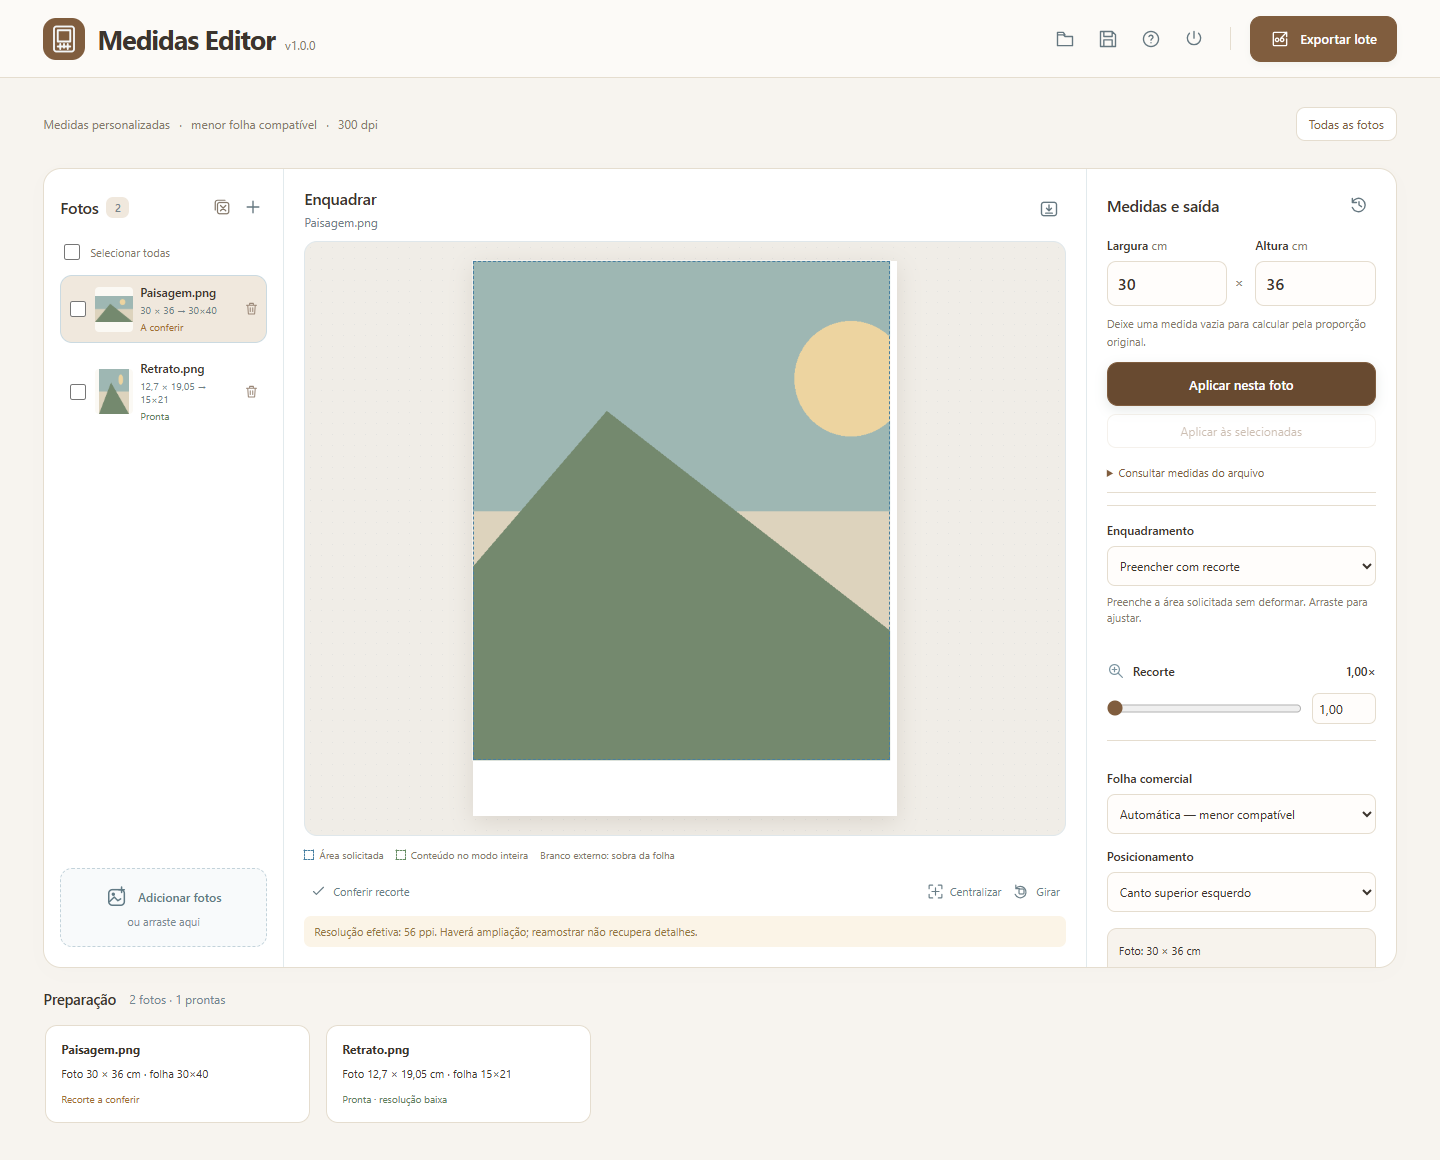
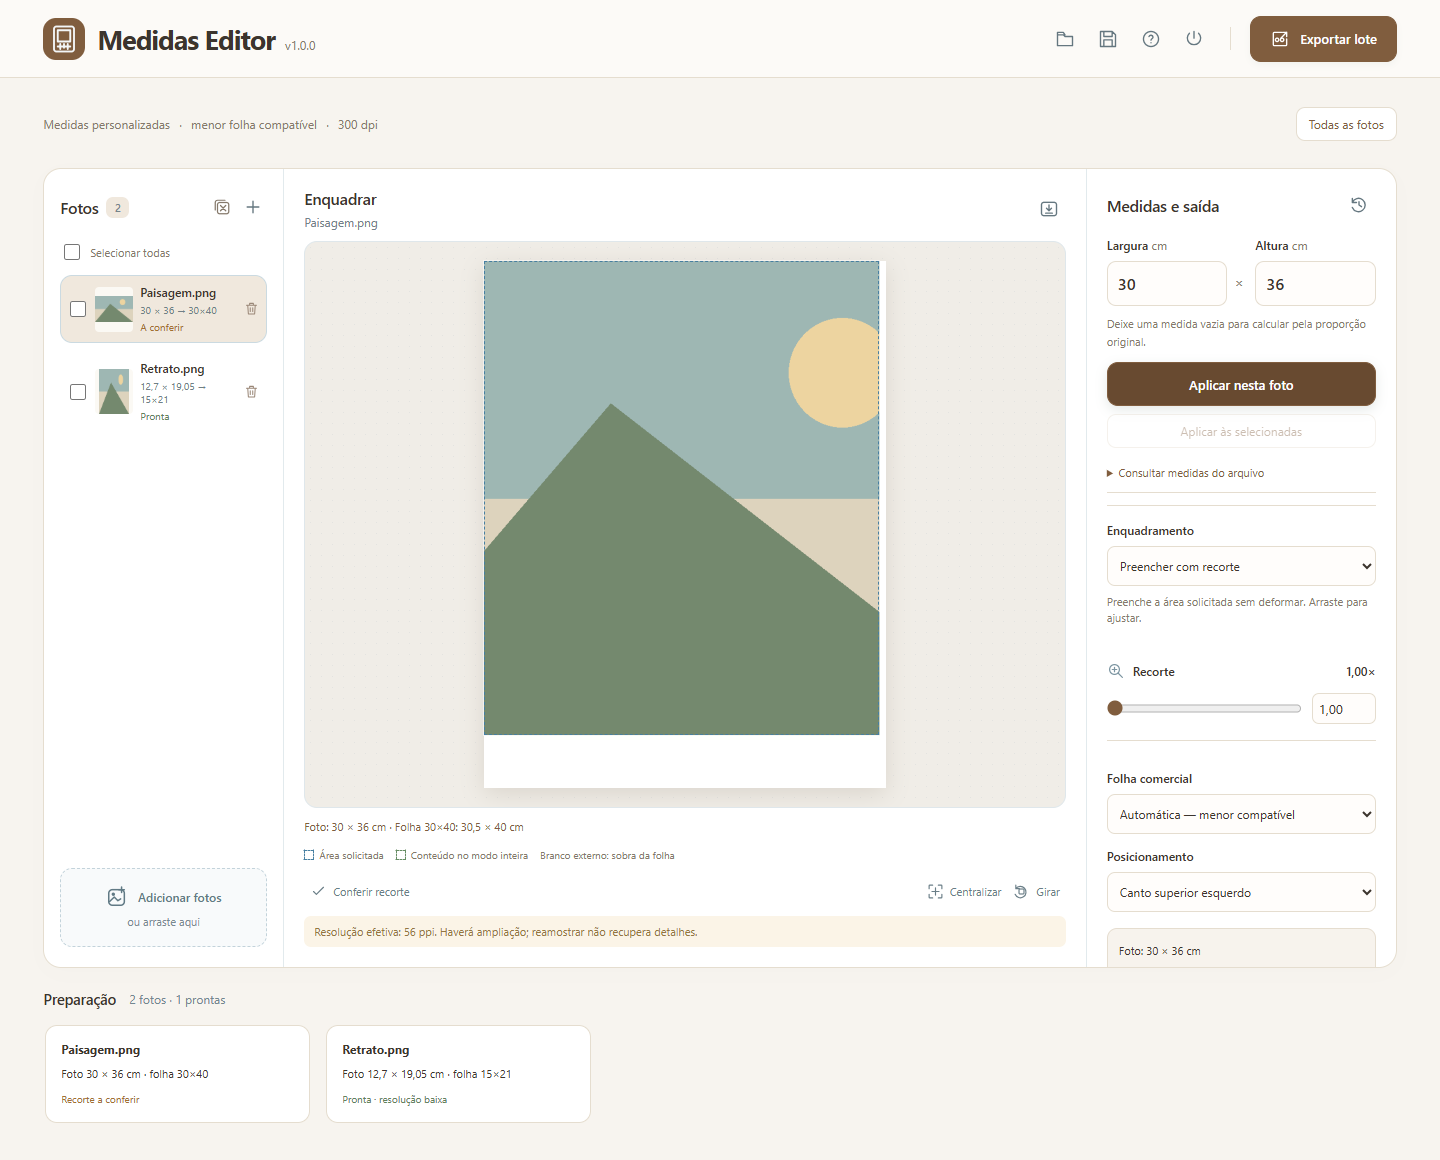
Transmite downloads grandes ao navegador e reforça o resumo da folha

diff --git a/apps/medidas-editor/ui/app.js b/apps/medidas-editor/ui/app.js
@@ -79,10 +79,11 @@ function renderSettings(){
   renderSummary();refreshControls();
 }
 function renderSummary(){
-  const photo=current();$('output-summary').replaceChildren();$('resolution').hidden=true;$('photo-error').hidden=!photo?.error;
+  const photo=current();$('output-summary').replaceChildren();$('sheet-context').textContent='';$('resolution').hidden=true;$('photo-error').hidden=!photo?.error;
   if(photo?.error)$('photo-error').textContent=photo.error;
   if(!photo?.plan){$('output-summary').textContent='Defina a medida da foto para sugerir a folha.';return;}
   const plan=photo.plan,s=photo.settings,sheet=plan.sheet;
+  $('sheet-context').textContent=`Foto: ${dimensions(s.width_cm,s.height_cm)} · Folha ${sheet.name}: ${dimensions(sheet.width_cm,sheet.height_cm)}${sheet.rotation?' · giro de 90°':''}`;
   for(const text of [`Foto: ${dimensions(s.width_cm,s.height_cm)}`,`Folha: ${sheet.name} — arquivo de ${dimensions(sheet.width_cm,sheet.height_cm)}`,`Posição: ${positionNames[s.position]}`,sheet.rotation?'Foto girada 90° para acomodar na folha.':'Foto acomodada sem giro adicional.',`Saída: JPEG · 300 dpi · ${sheet.size_px[0]} × ${sheet.size_px[1]} px`]){const p=document.createElement('p');p.textContent=text;$('output-summary').append(p);}
   const warnings=[...photo.metadata.warnings,...plan.warnings];
   $('resolution').hidden=!warnings.length;$('resolution').textContent=warnings.join(' ');
@@ -187,19 +188,20 @@ document.addEventListener('keydown',e=>{if(document.querySelector('dialog[open]'
 new ResizeObserver(fitPreview).observe($('canvas-area'));
 
 async function downloadBlob(response,name){const blob=await response.blob(),url=URL.createObjectURL(blob),a=document.createElement('a');a.href=url;a.download=name;document.body.append(a);a.click();a.remove();setTimeout(()=>URL.revokeObjectURL(url),60000);}
+function downloadNative(url,name){const a=document.createElement('a');a.href=url;a.download=name;a.rel='noreferrer';document.body.append(a);a.click();a.remove();}
 function requestExport(targets){if(!canEdit())return;if(draftDirty){toast('Aplique as medidas digitadas antes de exportar.');return;}const ready=targets.filter(p=>!pending(p));if(ready.length!==targets.length){pendingExport=ready;$('export-message').textContent=`${targets.length-ready.length} foto(s) ainda precisam de medidas ou revisão. ${ready.length} estão prontas. As pendentes ficarão fora desta exportação.`;$('export-ready').disabled=!ready.length;$('export-dialog').showModal();}else startExport(ready);}
 $('export').onclick=()=>requestExport(photos);$('export-photo').onclick=()=>{if(current())requestExport([current()]);};$('export-ready').onclick=()=>{$('export-dialog').close();startExport(pendingExport);};
 async function startExport(targets){
   if(!canEdit()||!targets.length)return;const snapshot=targets.map(item);saveSession();exporting=true;renderLibrary();renderCards();$('job-panel').hidden=false;$('job-errors').replaceChildren();$('download-result').hidden=true;$('cancel-export').hidden=false;$('cancel-export').disabled=true;
   try{const {job}=await(await api('export/start',{items:snapshot})).json();lastJob=job;$('cancel-export').disabled=false;
     while(!closed){const state=await(await api('export/status',{job})).json();$('job-title').textContent=state.state==='running'?'Preparando arquivos':state.state==='ready'?'Arquivos prontos':state.state==='cancelled'?'Exportação cancelada':'Confira os arquivos';$('job-progress').value=(state.done+(state.state==='running'?state.percent/100:0))/state.total*100;$('job-status').textContent=`${state.done} de ${state.total} processadas · ${state.success} JPEG(s) gerados${state.error?' · '+state.error:''}`;
-      if(state.state!=='running'){$('cancel-export').hidden=true;for(const result of state.items){if(result.error){const li=document.createElement('li');li.textContent=`${result.name}: ${result.error}`;$('job-errors').append(li);}}if(state.state==='ready'){$('download-result').hidden=false;$('download-result').dataset.filename=state.filename;await downloadBlob(await api('export/download',{job}),state.filename);toast(state.success===state.total?'Download iniciado.':'Download iniciado com os JPEGs válidos e um relatório das falhas.');}break;}
+      if(state.state!=='running'){$('cancel-export').hidden=true;for(const result of state.items){if(result.error){const li=document.createElement('li');li.textContent=`${result.name}: ${result.error}`;$('job-errors').append(li);}}if(state.state==='ready'){$('download-result').hidden=false;$('download-result').dataset.filename=state.filename;downloadNative(state.download_url,state.filename);toast(state.success===state.total?'Download iniciado.':'Download iniciado com os JPEGs válidos e um relatório das falhas.');}break;}
       await new Promise(resolve=>setTimeout(resolve,400));
     }
   }catch(error){toast(error.message);$('job-status').textContent=error.message;$('cancel-export').hidden=true;}finally{exporting=false;renderLibrary();renderCards();saveSession();flushRestore();}
 }
 $('cancel-export').onclick=async()=>{if(!lastJob)return;$('cancel-export').disabled=true;try{await api('export/cancel',{job:lastJob});$('job-status').textContent='Cancelando e liberando os recursos…';}catch(error){toast(error.message);$('cancel-export').disabled=false;}};
-$('download-result').onclick=async()=>{try{await downloadBlob(await api('export/download',{job:lastJob}),$('download-result').dataset.filename);}catch(error){toast(error.message);}};
+$('download-result').onclick=async()=>{try{const state=await(await api('export/status',{job:lastJob})).json();if(state.state!=='ready')throw new Error('O resultado não está mais disponível.');downloadNative(state.download_url,state.filename);}catch(error){toast(error.message);}};
 
 $('clear-all').onclick=()=>{if(canEdit())$('clear-dialog').showModal();};
 $('clear-confirm').onclick=async()=>{if(!canEdit())return;clearing=true;refreshControls();$('clear-confirm').disabled=true;$('clear-cancel').disabled=true;try{await api('clear',{ids:photos.map(p=>p.id)});releaseImages();photos=[];selected=null;checked.clear();$('clear-dialog').close();}catch(error){toast(error.message);}finally{clearing=false;$('clear-confirm').disabled=false;$('clear-cancel').disabled=false;renderSettings();renderLibrary();renderCards();drawLive();saveSession();flushRestore();}};

diff --git a/apps/medidas-editor/ui/index.html b/apps/medidas-editor/ui/index.html
@@ -14,7 +14,7 @@
 <div id="photo-list" tabindex="0" role="region" aria-label="Fotos. Use as setas para navegar."></div><button id="drop" class="drop"><span data-icon="add-photo"></span><strong>Adicionar fotos</strong><small>ou arraste aqui</small></button></aside>
 <section class="editor"><div class="panel-heading editor-heading"><div><h2>Enquadrar</h2><p id="selected-name">Escolha uma foto</p></div><button id="export-photo" class="icon-button" aria-label="Exportar esta foto" title="Exportar esta foto" disabled><span data-icon="download-sheet"></span></button></div>
 <div class="canvas-area" id="canvas-area"><div id="empty-editor" class="empty"><div class="empty-symbol" data-icon="brand"></div><h3>Sua foto, na medida certa.</h3><p id="empty-hint">Adicione as imagens e informe o tamanho desejado.</p><button id="empty-add" class="primary"><span data-icon="add-photo"></span>Selecionar fotos</button></div><div id="tile-frame" tabindex="0" aria-label="Prévia da folha. Arraste para ajustar o recorte." hidden><canvas id="tile-image" width="800" height="1000" role="img" aria-label="Prévia da foto na folha"></canvas><div id="photo-outline" aria-hidden="true"></div><div id="content-outline" aria-hidden="true" hidden></div></div></div>
-<div class="preview-legend"><span><i class="area-key"></i>Área solicitada</span><span><i class="content-key"></i>Conteúdo no modo inteira</span><span>Branco externo: sobra da folha</span></div>
+<p id="sheet-context" class="sheet-context" aria-live="polite"></p><div class="preview-legend"><span><i class="area-key"></i>Área solicitada</span><span><i class="content-key"></i>Conteúdo no modo inteira</span><span>Branco externo: sobra da folha</span></div>
 <div class="editor-bottom"><button id="review-photo" class="tool-button" aria-keyshortcuts="F" disabled><span data-icon="check"></span><span>Conferir recorte</span></button><div class="editor-tools"><button id="center" class="tool-button" title="Centralizar o recorte" disabled><span data-icon="center"></span>Centralizar</button><button id="rotate" class="tool-button" title="Girar a foto em 90°" disabled><span data-icon="rotate"></span>Girar</button></div></div>
 <div id="resolution" class="resolution" hidden></div><div id="photo-error" class="photo-error" role="status" hidden></div>
 </section></div>

diff --git a/apps/medidas-editor/ui/style.css b/apps/medidas-editor/ui/style.css
@@ -60,3 +60,5 @@
 @media(max-width:740px){.workspace{height:auto;grid-template-columns:1fr}.import-area{grid-template-columns:1fr}.library{padding:14px}.photo-row{flex-basis:225px;margin-bottom:0;min-height:82px}.photo-row img{width:38px;height:45px}.photo-detail strong{max-width:116px}.library .panel-heading{margin-bottom:5px}.select-all{margin:0 0 7px}#photo-list{max-height:105px;min-height:0}.canvas-area{height:450px;min-height:280px}.editor-heading p{max-width:65vw}.adjustments{overflow:visible;padding:20px;border-top:1px solid var(--line)}.dimension-inputs{max-width:440px}.adjustments .full-width{max-width:440px}.editor-bottom{justify-content:space-between}.editor-bottom .tool-button{font-size:12px}.preview-legend{font-size:10px}.template-bar{min-height:34px;margin-bottom:14px}.template-description{display:none}.template-bar #filter-review{margin-left:auto}.job-panel{padding:14px}.job-panel>div{align-items:flex-start}.import-area::after{border-radius:17px 17px 0 0}.position-label{margin-top:12px}}
 @media(max-width:420px){.canvas-area{height:360px}.editor{padding:14px 10px}.preview-legend{font-size:9px;gap:5px 10px}.editor-bottom .tool-button{font-size:11px;padding:7px 4px}.editor-tools{gap:1px}.adjustments{padding:17px}.job-panel>div{flex-wrap:wrap}.photo-row{flex-basis:215px}.header-actions{max-width:100%}.help-dialog{max-width:calc(100vw - 24px)}}
 [hidden]{display:none!important}
+
+.sheet-context{font-size:11px;line-height:1.6;color:var(--green);margin-top:10px;min-height:17px;overflow-wrap:anywhere}

diff --git a/apps/medidas-editor/app.py b/apps/medidas-editor/app.py
@@ -1,6 +1,7 @@
 """Local desktop service: immutable originals, interactive proxies and jobs."""
 import argparse
 import io
+import hmac
 import json
 import os
 from pathlib import Path
@@ -12,7 +13,7 @@ import time
 import webbrowser
 import zipfile
 from http.server import BaseHTTPRequestHandler, ThreadingHTTPServer
-from urllib.parse import urlparse, unquote, quote
+from urllib.parse import urlparse, unquote, quote, parse_qs
 from PIL import Image, UnidentifiedImageError
 from engine import FORMATS, layout, normalized_settings, proportional_size, cm_text, render_preview
 from photo_store import PhotoRecord, PhotoCache, MAX_FILE, MAX_PHOTOS, MAX_TOTAL
@@ -81,6 +82,7 @@ class Handler(BaseHTTPRequestHandler):
         self.send_header('Content-Disposition', "attachment; filename*=UTF-8''"+quote(filename, safe=''))
         self.send_header('Cache-Control', 'no-store')
         self.send_header('X-Content-Type-Options', 'nosniff')
+        self.send_header('Referrer-Policy', 'no-referrer')
         self.end_headers()
         while chunk := stream.read(256*1024):
             self.wfile.write(chunk)
@@ -94,6 +96,25 @@ class Handler(BaseHTTPRequestHandler):
         path = urlparse(self.path).path
         if path == '/health':
             return self.json_reply(dict(product='Medidas Editor', version=VERSION, instance=INSTANCE, pid=os.getpid()))
+        if path == '/download':
+            query = parse_qs(urlparse(self.path).query)
+            with EXPORTS.lock:
+                job = EXPORTS.jobs.get(query.get('job', [''])[0])
+                supplied = query.get('key', [''])[0]
+                if (job is None or job['state'] != 'ready' or not supplied.isascii()
+                        or not hmac.compare_digest(supplied, job['download_key'])):
+                    return self.json_reply({'error':'Download indisponível.'}, 403)
+                try:
+                    stream = job['path'].open('rb')
+                except OSError:
+                    return self.json_reply({'error':'O resultado não está mais disponível.'}, 404)
+                filename = job['filename']
+            try:
+                with stream:
+                    self.send_file(stream, filename, 'image/jpeg' if filename.endswith('.jpg') else 'application/zip')
+            except (BrokenPipeError, ConnectionResetError):
+                pass
+            return
         if path == '/':
             html = (ROOT/'ui/index.html').read_text(encoding='utf-8')
             html = html.replace('__TOKEN__', TOKEN).replace('__VERSION__', VERSION).replace('__FORMATS__', json.dumps(FORMATS, ensure_ascii=False))

diff --git a/apps/medidas-editor/jobs.py b/apps/medidas-editor/jobs.py
@@ -34,7 +34,7 @@ class ExportManager:
             job = dict(state='running', done=0, total=len(records), percent=0,
                        items=[dict(name=meta['name'], state='queued', error=None) for _, meta in records],
                        success=0, error=None, filename=None, created=time.monotonic(),
-                       directory=directory, cancel=threading.Event(), path=None)
+                       directory=directory, cancel=threading.Event(), path=None, download_key=secrets.token_urlsafe(24))
             self.jobs[identifier] = job
             thread = threading.Thread(target=self._work, args=(job, records), daemon=True, name='MedidasEditor-export')
             job['thread'] = thread
@@ -108,6 +108,13 @@ class ExportManager:
         except Exception:
             with self.lock:
                 job.update(state='failed', error='Falha ao finalizar o lote. Confira o espaço em disco e tente novamente.')
+            # An incomplete ZIP must not retain copies of all successful JPEGs.
+            for path in folder.iterdir():
+                try:
+                    if path.is_file():
+                        path.unlink(missing_ok=True)
+                except OSError:
+                    pass
 
     def _progress(self, job, value):
         with self.lock:
@@ -116,8 +123,10 @@ class ExportManager:
     def status(self, identifier):
         with self.lock:
             job = self.jobs[identifier]
-            return {key: ([item.copy() for item in job[key]] if key == 'items' else job[key])
-                    for key in ('state', 'done', 'total', 'percent', 'items', 'success', 'error', 'filename')}
+            result = {key: ([item.copy() for item in job[key]] if key == 'items' else job[key])
+                      for key in ('state', 'done', 'total', 'percent', 'items', 'success', 'error', 'filename')}
+            result['download_url'] = f'/download?job={identifier}&key={job["download_key"]}' if job['state'] == 'ready' else None
+            return result
 
     def cancel(self, identifier):
         with self.lock:

diff --git a/apps/medidas-editor/scripts/example.py b/apps/medidas-editor/scripts/example.py
@@ -20,10 +20,11 @@ def main():
     if args.output.exists():raise SystemExit('O arquivo de destino já existe. Escolha outro nome.')
     with tempfile.TemporaryDirectory(prefix='MedidasEditor-example-') as temporary:
         root=Path(temporary);original=root/'foto.png';result=root/'result.jpg'
-        image=Image.new('RGB',(1200,1440),'#c3d2c2');draw=ImageDraw.Draw(image)
-        draw.rectangle((0,0,1199,719),fill='#94b1b6')
-        draw.ellipse((800,180,1040,420),fill='#f2d7a5')
-        draw.polygon([(0,1440),(520,440),(1200,1440)],fill='#7d906d')
+        width,height=3543,4252
+        image=Image.new('RGB',(width,height),'#c3d2c2');draw=ImageDraw.Draw(image)
+        draw.rectangle((0,0,width-1,height//2),fill='#94b1b6')
+        draw.ellipse((int(width*.66),int(height*.125),int(width*.86),int(height*.29)),fill='#f2d7a5')
+        draw.polygon([(0,height),(int(width*.43),int(height*.3)),(width,height)],fill='#7d906d')
         image.save(original);image.close()
         plan,_=export_jpeg(original,dict(width_cm='30',height_cm='36'),result)
         # Exclusive creation prevents overwrites even if another process creates

diff --git a/apps/medidas-editor/tests/test_api.py b/apps/medidas-editor/tests/test_api.py
@@ -55,6 +55,10 @@ class ApiTests(unittest.TestCase):
         result=json.loads(self.api('export/status',dict(job=job)))
         self.assertEqual(result['state'],'ready');self.assertEqual(result['success'],1)
         output=self.api('export/download',dict(job=job))
+        with urllib.request.urlopen(self.url+result['download_url']) as response:
+            self.assertEqual(response.read(),output)
+        with self.assertRaises(urllib.error.HTTPError):
+            urllib.request.urlopen(self.url+result['download_url']+'wrong')
         with zipfile.ZipFile(io.BytesIO(output)) as archive:
             self.assertEqual(len([n for n in archive.namelist() if n.endswith('.jpg')]),1)
             self.assertIn('LEIA-ME-falhas.txt',archive.namelist())

diff --git a/apps/medidas-editor/docs/development.md b/apps/medidas-editor/docs/development.md
@@ -19,7 +19,7 @@ Pillow permanece no tratamento de entrada/ICC e nas prévias. Uma folha máxima 
 
 O Windows recebe a libvips junto ao executável; não existe instalação manual de bibliotecas pelo operador. Isso aumenta o tamanho do pacote e exige os avisos/licenças indicados em [THIRD-PARTY.md](../THIRD-PARTY.md).
 
-O original é normalizado um por vez para TIFF temporário; a folha final não é montada em um canvas de resolução completa. O cache de operações libvips é desativado, seu cache de memória é limitado a 32 MiB e são usadas duas threads internas. A fila exporta um item de cada vez. O JPEG é gravado em arquivo temporário e disponibilizado somente depois de concluído.
+O original é normalizado um por vez para TIFF temporário; a folha final não é montada em um canvas de resolução completa. O cache de operações libvips é desativado, seu cache de memória é limitado a 32 MiB e são usadas duas threads internas. A fila exporta um item de cada vez. O JPEG é gravado em arquivo temporário e disponibilizado somente depois de concluído. O download de exportações é transmitido diretamente ao gerenciador do navegador por uma URL local com chave por tarefa; a interface não monta o ZIP completo em um Blob JavaScript.
 
 O teste real do formato máximo monitora memória do processo e inspeciona pequenos blocos do resultado, evitando decodificar a folha inteira no próprio teste. O consumo também depende da entrada: normalizar uma fotografia de 60 megapixels demanda mais memória que o arquivo sintético usado no teste. Espaço em disco é verificado antes da exportação.
 
